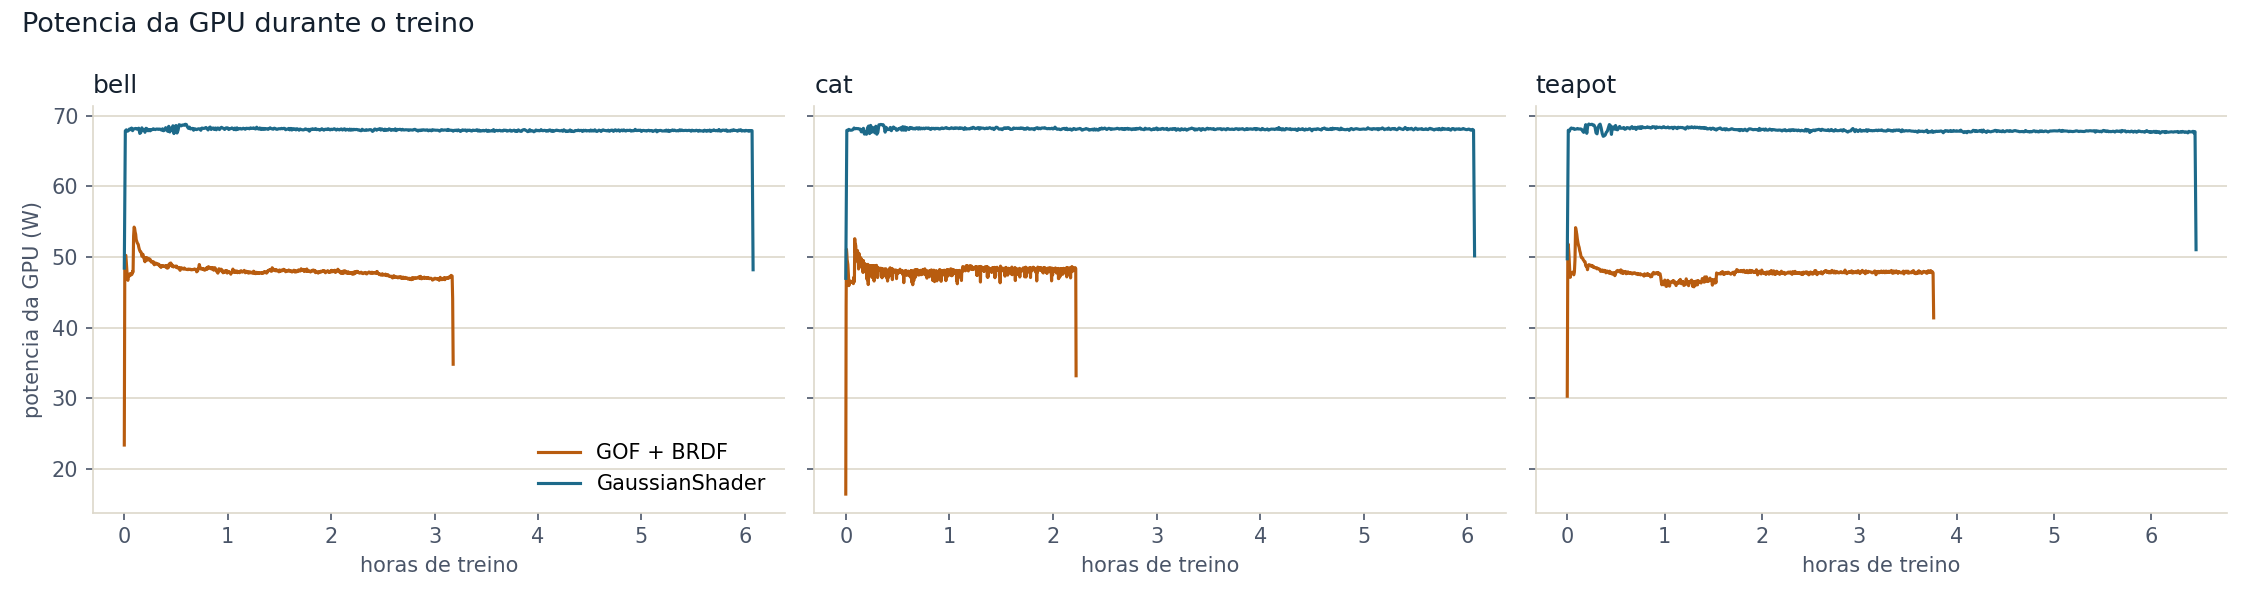
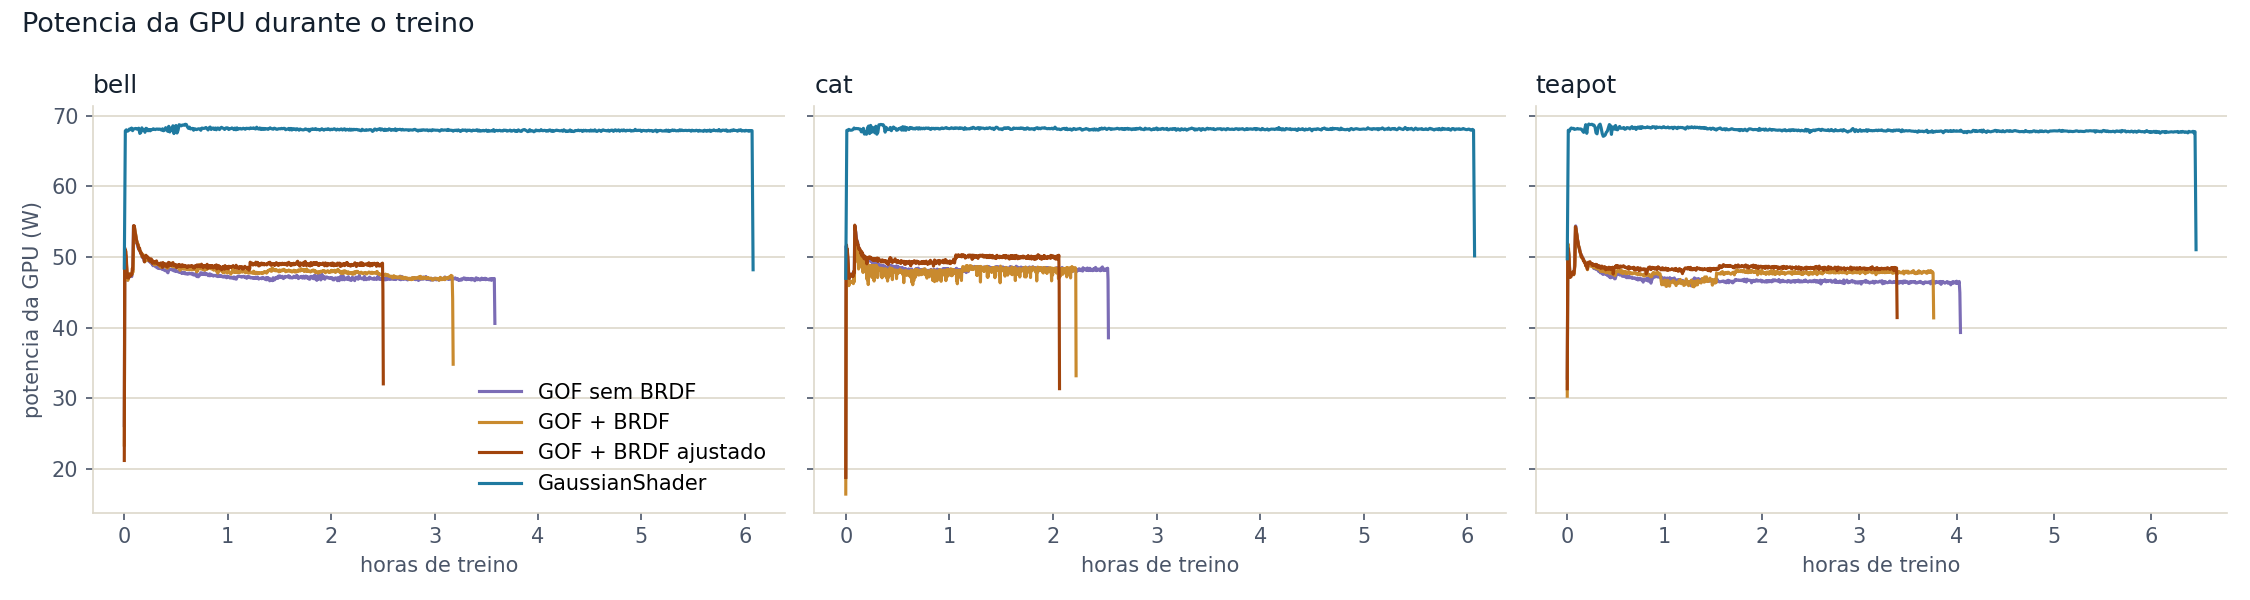
Docs: NeRO com GOF sem BRDF e GOF+BRDF ajustado

diff --git a/docs/12_RESULTADOS_NERO.md b/docs/12_RESULTADOS_NERO.md
@@ -1,29 +1,49 @@
 # Resultados no NeRO GlossySynthetic (bell, cat, teapot)
 
-GOF + BRDF e GaussianShader treinados e avaliados nas mesmas cenas, com perfil de tempo, energia e VRAM. Uma semente por execucao.
+Quatro variantes treinadas e avaliadas nas mesmas cenas, com perfil de tempo, energia e VRAM: GOF sem BRDF, GOF + BRDF com a configuracao do Truck, GOF + BRDF ajustado para objetos espelhados e GaussianShader. Uma semente por execucao.
 
 ## Como foi feito
 - Dados: `GlossySynthetic.tar.gz` do NeRO, convertido por `nero2blender.py` do GaussianShader (96 vistas de treino, 32 de teste, 800x800, fundo branco). Para o GOF, `scripts/nero_to_gof.py` acrescenta `camera_angle_x`.
-- GOF + BRDF: `--sh_degree 0 --brdf --light_frame world -w`, 30 mil iteracoes, inicializacao aleatoria de 100 mil pontos.
-- GaussianShader: comando do README para cenas Blender (`--brdf_dim 0 --sh_degree -1 --lambda_predicted_normal 2e-1 --brdf_env 512 -w`), 30 mil iteracoes, ambiente `gs` separado.
-- Fila serial (`scripts/queue_nero.sh`), perfil por `scripts/run_benchmark.py` (nvidia-smi a cada 2 s), renders por `scripts/render_nero.sh`, metricas por `scripts/compare_preds.py` e graficos por `scripts/nero_report.py`. GT identico nos dois (diferenca maxima 0).
-- Hardware: RTX 3050 de 6 GB. Os treinos rodaram um por vez porque o GaussianShader usa ate 5,7 GB.
-
-## Resultados (media das 32 vistas de teste)
+- GOF sem BRDF: `--sh_degree 0 -w`, 30 mil iteracoes, inicializacao aleatoria de 100 mil pontos (base para medir o termo especular).
+- GOF + BRDF: `--sh_degree 0 --brdf --light_frame world -w`, demais hiperparametros como no Truck (mapa de ambiente 128, `lambda_specular_sparse 0.001`, regularizacao de normais a partir de 15 mil).
+- GOF + BRDF ajustado: o anterior com `--envmap_res 512 --lambda_specular_sparse 0 --depth_normal_from_iter 3000`. O ajuste veio do diagnostico da bell (rugosidade aprendida alta num espelho, mapa de ambiente pequeno, esparsidade z## Resultados (media das 32 vistas de teste)
 | Cena | Metodo | PSNR | SSIM | LPIPS | Tempo (h) | Energia (Wh) | VRAM (GB) |
 |---|---|---|---|---|---|---|---|
-| bell | GOF + BRDF | 24,81 | 0,8928 | 0,1159 | 3,18 | 153 | 2,8 |
+| bell | GOF sem BRDF | 24,85 | 0,9043 | 0,1109 | 3,59 | 170 | 2,6 |
+| bell | GOF + BRDF | 24,80 | 0,8928 | 0,1159 | 3,18 | 153 | 2,8 |
+| bell | GOF + BRDF ajustado | 29,83 | 0,9350 | 0,0867 | 2,51 | 123 | 2,7 |
 | bell | GaussianShader | **29,84** | **0,9405** | **0,0834** | 6,09 | 414 | 5,3 |
-| cat | GOF + BRDF | **32,37** | **0,9665** | **0,0541** | 2,23 | 107 | 2,6 |
+| cat | GOF sem BRDF | 29,87 | 0,9521 | 0,0720 | 2,54 | 123 | 2,6 |
+| cat | GOF + BRDF | 32,37 | 0,9665 | 0,0541 | 2,23 | 107 | 2,6 |
+| cat | GOF + BRDF ajustado | **32,68** | **0,9698** | **0,0491** | 2,06 | 103 | 2,6 |
 | cat | GaussianShader | 31,32 | 0,9607 | 0,0578 | 6,08 | 414 | 5,5 |
+| teapot | GOF sem BRDF | 21,08 | 0,8790 | 0,1033 | 4,04 | 189 | 2,5 |
 | teapot | GOF + BRDF | 23,08 | 0,8889 | 0,0982 | 3,77 | 180 | 2,6 |
-| teapot | GaussianShader | **23,82** | **0,9021** | **0,0946** | 6,47 | 439 | 5,6 |
+| teapot | GOF + BRDF ajustado | **24,40** | **0,9062** | **0,0921** | 3,39 | 165 | 2,6 |
+| teapot | GaussianShader | 23,82 | 0,9021 | 0,0946 | 6,47 | 439 | 5,6 |
 
-Diferenca GaussianShader menos GOF + BRDF: bell +5,03 dB (32/32 vistas), cat −1,05 dB (GaussianShader melhor em 1/32), teapot +0,75 dB (28/32).
+Diferencas de PSNR por vista (media; vistas em que o primeiro e melhor):
+- GOF + BRDF menos GOF sem BRDF: bell −0,04 dB (14/32), cat +2,49 dB (32/32), teapot +2,00 dB (31/32).
+- GOF + BRDF ajustado menos GOF + BRDF: bell +5,02 dB (32/32), cat +0,32 dB (29/32), teapot +1,33 dB (32/32).
+- GaussianShader menos GOF + BRDF ajustado: bell +0,01 dB (15/32; SSIM melhor em 28/32, LPIPS em 25/32), cat −1,37 dB (0/32), teapot −0,58 dB (0/32).
 
 ## Leitura
-- Qualidade depende da cena: o GaussianShader vence bell e teapot, e o GOF + BRDF vence cat.
-- Custo: o GaussianShader leva 1,7 a 2,7 vezes o tempo, de 2,4 a 3,9 vezes a energia (potencia media 68 W contra 48 W) e o dobro de VRAM.
+- O termo especular ajuda quando esta bem configurado: com a configuracao do Truck ele ja rende +2 a +2,5 dB em cat e teapot, mas nada na bell, o objeto mais espelhado.
+- A diferenca de 5 dB que havia na bell era de configuracao, nao do metodo: o ajuste a elimina por completo, e na bell o GOF + BRDF ajustado empata com o GaussianShader em PSNR, com SSIM e LPIPS ligeiramente piores.
+- Com o ajuste, o GOF + BRDF supera o GaussianShader em cat e teapot nas tres metricas e em todas as 32 vistas de PSNR.
+- O ajuste nao custa mais: tempo e energia caem um pouco e a VRAM fica igual.
+- Custo: o GaussianShader leva 1,9 a 3,0 vezes o tempo e 2,7 a 4,0 vezes a energia do GOF + BRDF ajustado (potencia media 68 W contra 49 W), e o dobro de VRAM.
+- O render das 32 vistas leva cerca de 21 s no GOF e 50 s no GaussianShader.
+
+## Limites
+- O ajuste foi escolhido olhando a bell, que tambem e cena de teste; cat e teapot nao participaram da escolha.
+- Os tres ajustes foram aplicados juntos, entao nao se sabe o peso de cada um.
+- O GaussianShader usou os hiperparametros do README e nao foi ajustado por cena.
+- Uma semente por execucao; diferencas abaixo de cerca de 0,1 dB nao sao interpretaveis (bell: GOF sem BRDF e GOF + BRDF; GOF + BRDF ajustado e GaussianShader).
+- Nao ha metricas de geometria (malha) neste conjunto.
+- O primeiro treino de cat com o GaussianShader foi perdido por suspensao do computador e refeito; o tempo reportado e o da repeticao.
+
+encia media 68 W contra 48 W) e o dobro de VRAM.
 - Na cat o GOF + BRDF entrega mais qualidade com menos de 40% do tempo e da energia.
 - O render das 32 vistas leva cerca de 22 s no GOF e 50 s no GaussianShader.
 
@@ -34,4 +54,4 @@ Diferenca GaussianShader menos GOF + BRDF: bell +5,03 dB (32/32 vistas), cat −
 - Nao ha metricas de geometria (malha) neste conjunto.
 - O primeiro treino de cat com o GaussianShader foi perdido por suspensao do computador e refeito; o tempo reportado e o da repeticao.
 
-Arquivos: `docs/experiments/NERO/` (`resumo.csv`, `metricas_<cena>.json`, `qualidade.png`, `custo.png`, `diferenca_psnr_por_vista.png`, `potencia.png`).
+Arquivos: `docs/experiments/NERO/` (`resumo.csv`, `metricas_<cena>.json`, `qualidade.png`, `custo.png`, `diferenca_psnr_por_vista.png`, `potencia.png`, `nero_visual.png`). A diferenca por vista compara GaussianShader e GOF + BRDF ajustado.
